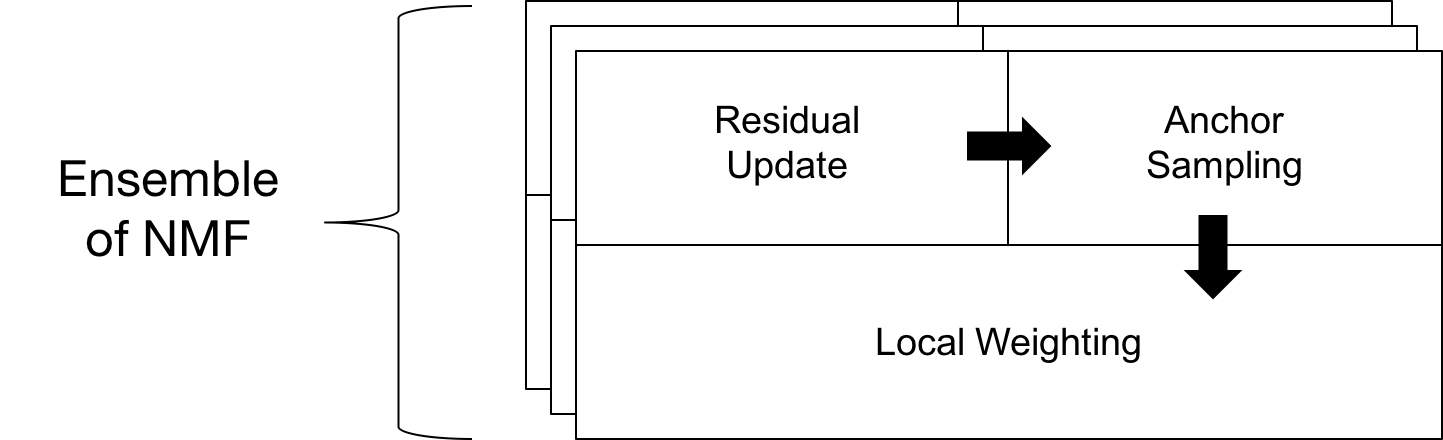
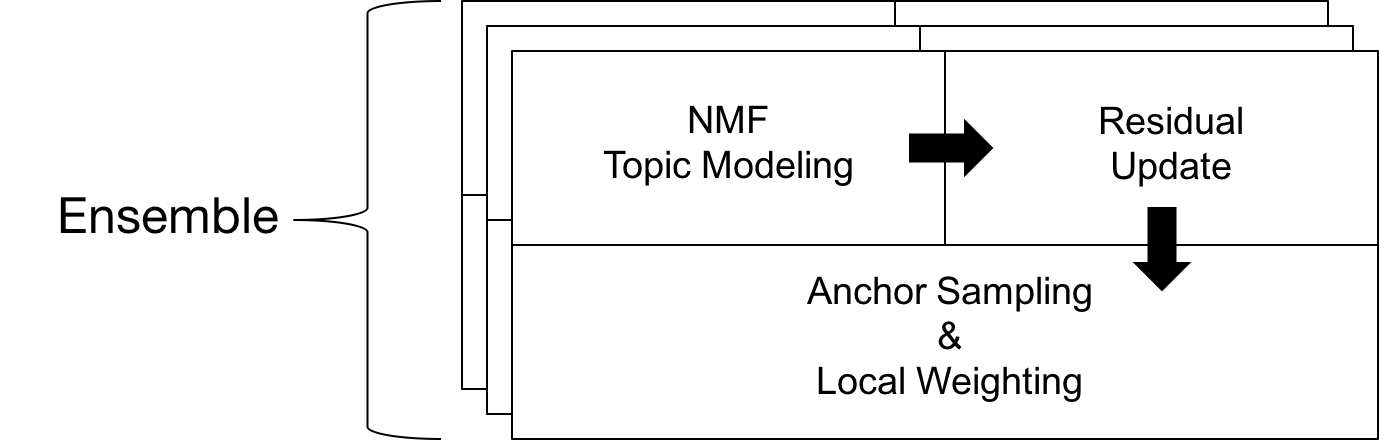
Update

diff --git a/index.html b/index.html
@@ -28,17 +28,18 @@
 			<div class="slides">
 				<section>
 					<p style="font-size:1.3em"> <strong>L-EnsNMF</strong>: Boosted Local Topic Discovery via <br>Ensemble of Nonnegative Matrix Factorization </p><br>
-					<p style="font-size:1em"> 
+					<p style="font-size:1.1em"> 
 						<!-- <strong>Sangho Suh</strong><sup>1</sup>, <span style="color:#b90504">Jaegul Choo</span><sup>1</sup>, <span style="color:cornflowerblue">Joonseok Lee</span><sup>2</sup>, <span style="color:darkorange">Chandan K. Reddy</span><sup>3</sup> <br>
 						<br> -->
 						Sangho Suh<sup>1</sup>, Jaegul Choo<sup>1</sup>, <br>Joonseok Lee<sup>2</sup>, Chandan K. Reddy<sup>3</sup>
 						<!-- <span style="color:darkred">Korea University</span> | <span style="color:cornflowerblue">Google Research</span> | <span style="color:darkorange">Virginia Tech</span> -->
 					<br><br>
 					</p>
-					<p style="font-size:0.8em">
-						<sup>1</sup>Korea University, <sup>2</sup>Research at Google, <sup>3</sup>Virginia Tech
+					<p style="font-size:0.9em">
+						<sup>1</sup>Korea University, <sup>2</sup>Google Research, <sup>3</sup>Virginia Tech
 					</p>	
-						<!-- <img src="img/korea_univ.png"><img src="img/google_research.png" style="width:38%;margin-right:12px; margin-left:8px"><img src="img/virginia_tech.png" style="width:30%"> -->
+<!-- 
+						<sup>1</sup><img src="img/korea_univ.png" style="width:8%"><sup>2</sup><img src="img/google_research.png" style="width:38%;margin-right:12px; margin-left:8px"><sup>3</sup><img src="img/virginia_tech.png" style="width:30%"> -->
 				</section>
 	<!-- 				<section>
 						<h3>Table of Contents</h3>
@@ -63,17 +64,17 @@
 						<img src="./img/global_topic_modeling.png" alt="Global Topic Modeling">
 					</section>
 					<section data-transition="convex">
-						<span style="font-size:1.3em"><strong style="color:black">Global vs. Local Topic</strong></span>
+						<span style="font-size:1.3em"><strong style="color:black">Global vs. Local Topic</strong></span><br>
 						<img src="./img/motivation.png" alt="motivation">
 					</section>
 					<section data-transition="convex">
 						<span style="font-size:1.3em"><strong style="color:black">Problem</strong></span><br><br>
-						Existing topic modeling algorithms provide users with <br><strong>global topics</strong> that give <strong>general, redundant</strong> information
+						Existing topic modeling algorithms provide users with <br><strong style="color:red">global topics</strong> that give <strong style="color:red">general</strong>, <strong style="color:red">redundant</strong> information
 					</section>					
 					<section data-transition="convex">
 						<p style="font-size:1.3em">
 						<span style="font-size:1.3em"><strong style="color:black">Proposed Idea</strong></span><br><br>
-							<strong>Local topic discovery</strong> to extract <br>
+							<strong style="color:#0485b9">Local topic discovery</strong> to extract <br>
 							more specific, informative topics							
 						</p>
 					</section>
@@ -110,14 +111,12 @@
 					<section data-transition="concave">
 						<img src="./img/intuition.png" alt="LEnsNMF">
 						<br>
-						<p style="text-align:left; font-size:0.9em">
+						<p style="text-align:left; font-size:1.1em">
 							<span class="fragment fade-in" data-fragment-index="1">For local topic discovery,</span> <br>
-							<span class="fragment fade-in" data-fragment-index="2"> 1) Iterate </span> <span class="fragment fade-in" data-fragment-index="4"> -> <strong>Ensemble of NMF</strong></span> <br>
-							<span class="fragment fade-in" data-fragment-index="3"> 2) Boost & Suppress <span class="fragment fade-in" data-fragment-index="5"> -> <strong>Local weighting scheme</strong></span> </span>	
-							<br><br>
-							<span class="fragment fade-in" style="font-size:1.1em" data-fragment-index="6"> => Localized Ensemble of Nonnegative Matrix Factorization 
+							<span class="fragment fade-in" data-fragment-index="2"> 1) Iterate </span> <span class="fragment fade-in" data-fragment-index="4"> -> <strong style="color:black" >Ensemble</strong></span> <br>
+							<span class="fragment fade-in" data-fragment-index="3"> 2) Boost & Suppress <span class="fragment fade-in" data-fragment-index="5"> -> <strong style="color:black" >Local weighting scheme</strong></span> </span>	
 							<br>
-							&nbsp;&nbsp;&nbsp;&nbsp;&nbsp;(<strong>L-EnsNMF</strong>)</span>	
+							<span class="fragment fade-in" style="font-size:1.1em" data-fragment-index="6"> => Localized Ensemble of Nonnegative Matrix Factorization(<strong>L-EnsNMF</strong>)</span>	
 						</p>
 					</section>					
 				</section>
@@ -130,91 +129,136 @@
 					    <br>
 					    <p class="fragment shrink" data-fragment-index="1">1. Probabilistic (e.g. LDA)</p>
 					    <p class="fragment highlight-blue" data-fragment-index="1">2. Mathematical (e.g. NMF)</p>
-					</section>				 -->
-					<section>
-						<span style="font-size:1.3em"><strong style="color:black">Nonnegative Matrix Factorization (NMF)</strong></span>
-						<img src="./img/nmf.png" alt="NMF for topic modeling">
-					</section>					
-					<section>
+					</section>				 -->			
+<!-- 					<section>
 						<span style="font-size:1.3em"><strong style="color:black">NMF for Topic Modeling</strong></span>
 						<img src="./img/nmf.png" alt="NMF for topic modeling" style="width:55%"><br>
 						<img class="fragment fade-in" src="./img/arrow-down.png" style="width:2%"><br>
 						<img class="fragment fade-in" src="./img/nmf_for_topic_modeling.png" style="width:25%">
-					</section>						
+					</section>			 -->			
 					<section>
 						<span style="font-size:1.3em"><strong style="color:black">Overview of <strong>L-EnsNMF</strong></strong></span><br>
-						<img src="./img/overview.png" alt="Overview">
+						<img src="./img/overview.png" alt="Overview" style="width:90%">
 						<p style="text-align:left; font-size:0.9em">
-							<span class="fragment fade-in" data-fragment-index="1"> 1) Residual Update </span> <br><span class="fragment fade-in" data-fragment-index="2"> -> <strong>Find unexplained parts</strong> (e.g. egyptian cat)</span> 
+							<span class="fragment fade-in" data-fragment-index="1"> 1) NMF Topic Modeling <br><span class="fragment fade-in" data-fragment-index="2">-> <strong style="color:#0485b9">Find a set of topics</strong></span> </span><br>
+							<span class="fragment fade-in" data-fragment-index="3"> 2) Residual Update </span> <br><span class="fragment fade-in" data-fragment-index="4"> -> <strong style="color:#0485b9"">Identify unexplained parts</strong> (e.g. egyptian cat) <strong style="color:#0485b9""></strong></span> 
 							<br>
-							<span class="fragment fade-in" data-fragment-index="3"> 2) Anchor Sampling & Local weighting <span class="fragment fade-in" data-fragment-index="4"> <br>-> <strong>Reveal unexplained parts and suppress explained parts</strong></span> </span>
-							<br>
-							<span class="fragment fade-in" data-fragment-index="5"> 3) Ensemble <br><span class="fragment fade-in" data-fragment-index="6">-> <strong>Repeat this process</strong></span> </span>				
+							<span class="fragment fade-in" data-fragment-index="5"> 3) Anchor Sampling & Local weighting <span class="fragment fade-in" data-fragment-index="6"> <br>-> <strong style="color:#0485b9">Reveal unexplained parts and suppress explained parts</strong></span> </span>
 						</p>
-					</section>		
+					</section>	
+					<section>
+						<span style="font-size:1.3em"><strong style="color:black">Nonnegative Matrix Factorization (NMF) 
+						<br> Topic Modeling	
+						</br></strong></span>
+						<img src="./img/nmf.png" alt="NMF for topic modeling">
+						<br>
+						where [ <ul><li></li></ul>]<sub>+</sub> converts every negative element to zero
+					</section>								
 					<section>
 						<span style="font-size:1.3em"><strong style="color:black">Residual Update</strong></span><br><br>
-						<img src="img/residual_matrix.png">
-						<!-- Residual values represent <strong style="color:black">unexplained</strong> parts -->
 						<strong style="color:black">Find</strong> unexplained parts using residual matrix, R
+						<br><br>
+						<img src="img/residual_matrix.png">
+						Note that '<strong style="color:black">overexplained</strong>' parts are converted to 0 
+						<!-- Residual values represent <strong style="color:black">unexplained</strong> parts -->
 					</section>							
 					<section>
 						<span style="font-size:1.3em"><strong style="color:black">Anchor Sampling</strong></span><br><br>
-						<img src="img/anchor_sampling.png">
 						<strong style="color:black">Sample</strong> unexplained document(<em>col</em>) & keyword(<em>row</em>)
+						<br>
+						<img src="img/anchor_sampling.png">
 					</section>												
 					<section>
 						<span style="font-size:1.3em"><strong style="color:black">Local Weighting</strong></span><br><br>
+						<strong style="color:black">Reveal</strong> <strong style="color:#0485b9">local topics</strong> & <strong style="color:black">suppress</strong> <strong style="color:red">global topics</strong>
+						<br>						
 						<img src="img/local_weighting.png">
-						<strong style="color:black">Reveal</strong> local topics & suppress global topics
+						<br>
+						by localizing residual matrix, <strong style="color:black">R</strong>, and get <strong style="color:black">R<sub>L</sub></strong>
 					</section>															
 					<section>
-						<span style="font-size:1.3em"><strong style="color:black">Ensemble on Gradient Boosting</strong></span><br><br>
-						<strong style="color:black">Repeat</strong> using gradient (i.e., residual values)<br><br>
-						<img src="img/overview.png">
+						<span style="font-size:1.3em"><strong style="color:black">Ensemble</strong></span><br><br>
+						Use <strong style="color:black">R<sub>L</sub></strong> as an input to NMF topic modeling in the next stage<br><br>
+						<img src="img/overview_next2.png" style="width:80%">
 					</section>
+					<section>
+						<span style="font-size:1.3em"><strong style="color:black">Why NMF on Residual Matrices (1)</strong></span><br><br>
+						<img src="./img/synth_k2.png" alt="Synthetic Example">
+					</section>
+					<section>
+						<span style="font-size:1.3em"><strong style="color:black">Why NMF on Residual Matrices (2)</strong></span><br><br>
+						<img src="./img/deflation.png" style="width:60%" alt="Synthetic Example">
+						<br>
+						<span style="font-size:0.9em">Deflation-based method helps to reveal <br>highly non-redundant, diverse topics</span>
+					</section>					
+					<section>
+					<span style="font-size:1.3em"><strong style="color:black">Fast rank-2 NMF</strong></span><br><br>
+						Exhaustive search approach <br>for an optimal active/passive set partitioning</strong><br>
+						<img src="./img/fast-rank2.png" alt="Fast rank-2" style="width:65%">
+					</section>					
 				</section>
 				<section>
 					<section data-transition="convex">
-						<h3> Proposed Method <br>(Quantitative Experiment) </h3>
+						<h3> Evaluation </h3>
 					</section>
 					<section data-transition="convex">
-						<span style="font-size:1.3em"><strong style="color:black">Topic Coherence</strong></span>
-						<img src="./img/topic_coherence2.png" style="width:80%" alt="Topic Coherence"><br>
+						<span style="font-size:1.3em"><strong style="color:black">Datasets</strong></span><br><br>						
+						<ol style="font-size:0.9em">
+							<li><strong style="color:black">Reuters</strong>: Articles from the Reuters newswire in 1987</li>
+							<li>20 Newsgroups (<strong style="color:black">20News</strong>): Newsgroup documents from <br>Usenet newsgroups</li>
+							<li><strong style="color:black">Enron</strong>: 2,000 randomly sampled emails from <br>Enron Corporation</li>
+							<li>IEEE-Vis (<strong style="color:black">VisPub</strong>): Academic papers published in <br>IEEE Visualization conferences</li>
+							<li><strong style="color:black">Twitter</strong>: 2,000 randomly selected tweets generated from <br>New York City in June 2013</li>
+						</ol>
+						<img src="./img/dataset.png" alt="dataset" style="width:60%">
+					</section>
+					<section data-transition="convex">
+						<span style="font-size:1.2em"><strong style="color:black">Baseline Methods</strong></span><br><br>
+						<ol style="font-size:1.1em">
+							<li>Standard NMF (<strong style="color:black">StdNMF</strong>)</li>
+							<li>Sparse NMF (<strong style="color:black">SprsNMF</strong>)</li>
+							<li>Orthogonal NMF (<strong style="color:black">OrthNMF</strong>)</li>
+							<li>Latent Dirichlet Allocation (<strong style="color:black">LDA</strong>)</li>
+						</ol>
+					</section>
+					<section data-transition="convex">
+						<h3> Quantitative <br>Evaluation </h3>
+					</section>					
+					<section data-transition="convex">
+						<span style="font-size:1.3em"><strong style="color:black">Topic Coherence</strong></span><br><br>
 						<strong>L-EnsNMF</strong> generates topics of high-quality regardless of<br>the number of topics and datasets
+						<img src="./img/topic_coherence1.png" style="width:100%" alt="Topic Coherence"><br>
 					</section>
 					<section data-transition="convex">
-						<span style="font-size:1.3em"><strong style="color:black">Total Document Coverage</strong></span>
-						<img src="./img/total_doc_cvrg.png" alt="Total Document Coverage">
+						<span style="font-size:1.3em"><strong style="color:black">Total Document Coverage</strong></span><br><br>
 						Topics by <strong>L-EnsNMF</strong> become more and more diverse <br>as the number of topics increases
+						<img src="./img/total_doc_cvrg.png" style="width:90%" alt="Total Document Coverage">
 					</section>							
 					<section data-transition="convex">
-						<span style="font-size:1.3em"><strong style="color:black">Computing Time</strong></span>
+						<span style="font-size:1.3em"><strong style="color:black">Computing Time</strong></span><br><br>
+						<strong>L-EnsNMF</strong> is the fastest and the most scalable<br>
 						<img src="./img/computing_time.png" alt="Computing Time" style="width:70%"><br>
-						<strong>L-EnsNMF</strong> runs fastest and is the most scalable <br>(cf. Fast Rank-2)
-					</section>										
-					</section>
-				</section>	
-				<section>
+					</section>		
 					<section data-transition="convex">
-						<h3> Proposed Method <br>(Qualitative Experiment) </h3>
+						<h3> Qualitative <br>Topic Example </h3>
 					</section>
 					<section data-transition="convex">
-						<span style="font-size:1.3em"><strong style="color:black">Local Topic Discovery</strong></span>
-						<img src="./img/qualitative_exp.png" alt="Qualitative Experiment">
+						<span style="font-size:1.3em"><strong style="color:black">Local Topic Discovery</strong></span><br><br>
 						<p style="font-size:0.8em">
 							 We generated 100 topics (10 keywords each) but only <strong>L-EnsNMF</strong> extracted local, specific keywords, e.g., ‘<strong style="color:black">hurrican</strong>’, ‘<strong style="color:black">sandi</strong>’, ‘<strong style="color:black">ireland</strong>.’
 						</p>
+						<img src="./img/qualitative_exp.png" alt="Qualitative Experiment">
+
 					</section>
 					<section data-transition="convex">
-						<span style="font-size:1.3em"><strong style="color:black">Local Topic Discovery</strong></span>
+						<span style="font-size:1.3em"><strong style="color:black">Local Topic Discovery</strong></span><br><br>
+						<p style="font-size:0.75em">
+							A search for related web documents with the query ‘<strong style="color:black">hurricane sandy ireland</strong>’ led to the <strong style="color:black">discovery of the local news</strong> that the Ireland football team visited New York City in June 2013 to boost a community hit by Hurricane Sandy in 2012		
+						</p>						
 						<img src="./img/qualitative_exp_ex.png" alt="Example for Qualitative Experiment">
-						<br>
-						<p style="font-size:0.7em">
-							A search for related web documents with the query ‘<strong style="color:black">hurricane sandy ireland</strong>’ led to the discovery of the local news that the Ireland football team visited New York City in June 2013 to boost a community hit by Hurricane Sandy in 2012		
-						</p>
 					</section>
-				</section>					
+
+				</section>			
 				<section>
 					<section data-transition="convex">
 						<h3>Conclusion</h3>

diff --git a/css/theme/lens_nmf.css b/css/theme/lens_nmf.css
@@ -1,6 +1,6 @@
 .highlight {
 	/*padding: 0 0.2em;*/
-    background-color: #b90504;
+    background-color: #0485b9;
     color: white;
 }
 strong {
